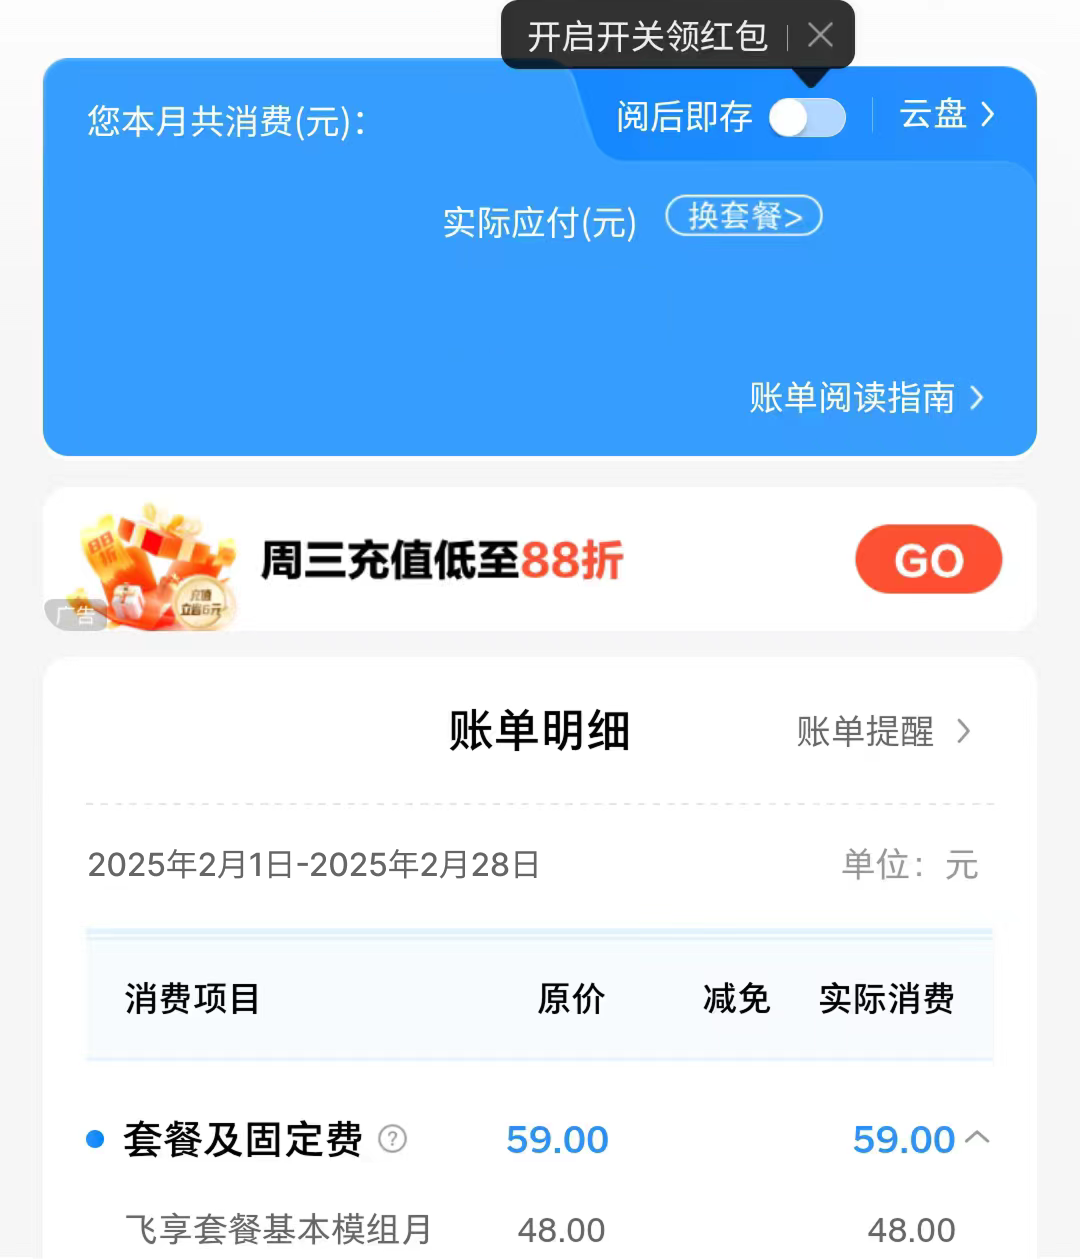
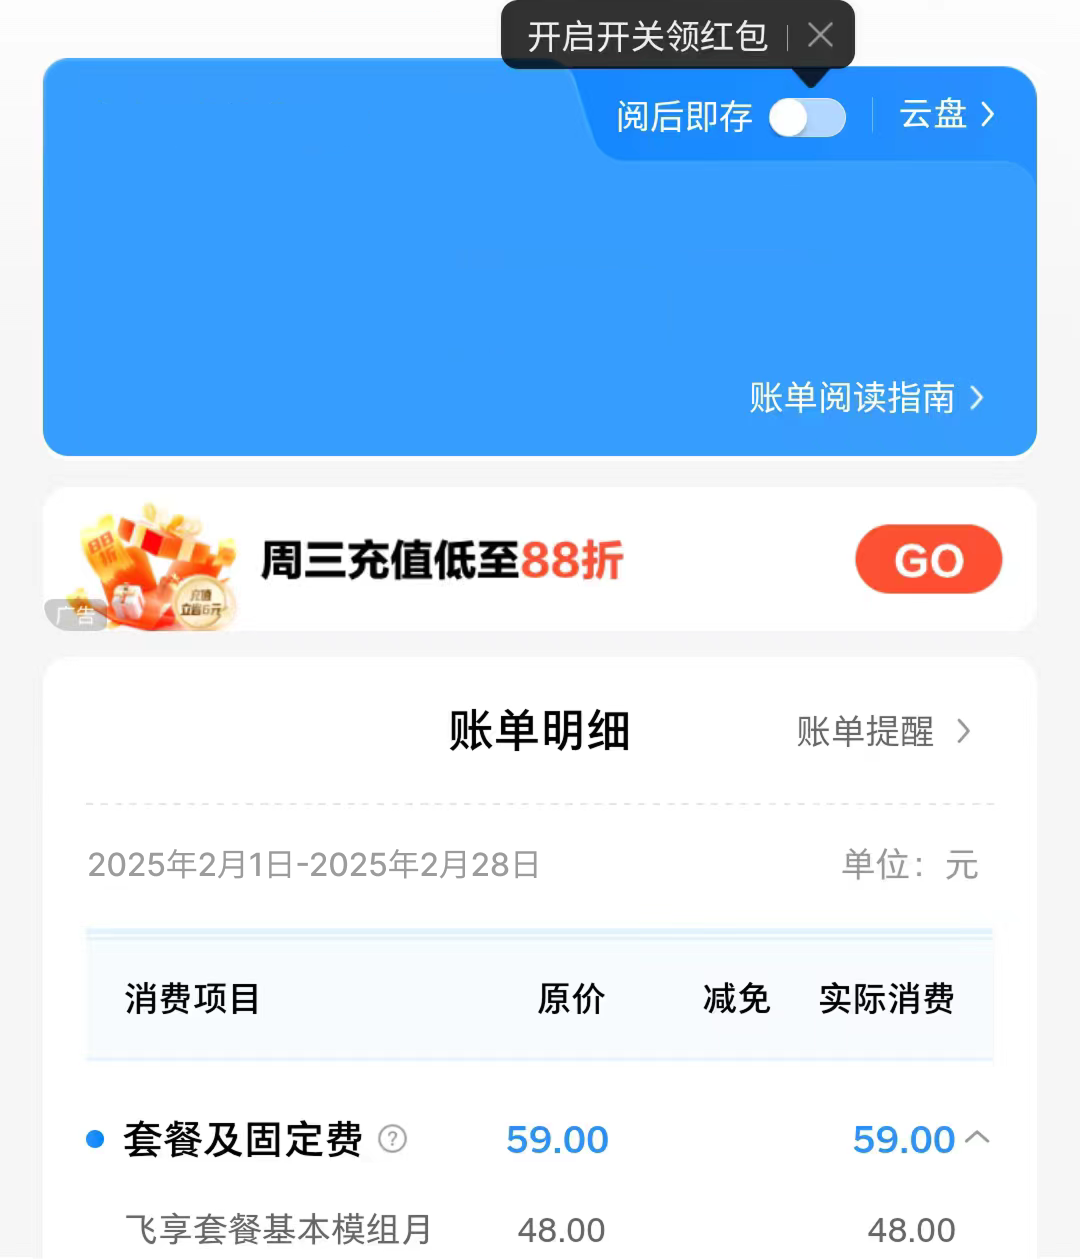
📐 alignment

Changed region(s): [[0.0611, 0.0619, 0.3361, 0.1238], [0.0917, 0.681, 0.4889, 0.7119], [0.3972, 0.1548, 0.7639, 0.1857]]

diff --git a/app/page.tsx b/app/page.tsx
@@ -83,12 +83,12 @@ export default function Home() {
   // 定义获取随机数的函数
   const getRandomNumber = () => {
     // 生成0到100之间的随机数，保留两位小数
-    const number = (Math.random() * 100 + 58).toFixed(2);
+    const number = (Math.random() * 100 + 58).toFixed(1);
     setRandomNumber(number);
   };
 
   return (
-    <div className="bg-[#E0F0FD] h-screen w-screen pt-12 pt-safe-top max-w-lg">
+    <div className="bg-[#E0F0FD] h-screen w-screen pt-12 max-w-md">
       <Image
         className="w-full"
         src="/banner.png"
@@ -97,7 +97,7 @@ export default function Home() {
         height={0}
         sizes="100vw"
       />
-      <div className="w-screen h-[40px] max-w-lg fixed top-0 pt-safe-top left-0">
+      <div className="w-screen h-[40px] max-w-md fixed top-0 pt-safe-top left-0">
         <Image className="" src="/header.png" alt="" sizes="100vw" fill />
       </div>
 
@@ -185,19 +185,31 @@ export default function Home() {
             height={0}
             sizes="100vw"
           />
-          <div className="absolute top-8 left-36 font-semibold text-base">
-            {randomNumber ? randomNumber : "89.50"}
+          <div className="absolute top-8 left-8 flex items-baseline">
+            <span className="text-xs tracking-wide text-[#FAFFFE]">
+              您本月共消费(元)：
+            </span>
+            <span className="font-semibold text-base">
+              {randomNumber ? randomNumber : "89.5"}0
+            </span>
           </div>
-          <div
-            className="absolute top-24 left-[170px] font-extrabold text-3xl"
-            onClick={getRandomNumber}
-          >
-            {randomNumber ? randomNumber : "89.50"}
+          <div className="absolute top-16 left-40" onClick={getRandomNumber}>
+            <div>
+              <span className="text-xs tracking-wide text-[#FAFFFE]">
+                实际应付(元)
+              </span>
+              <span className="text-[11px] text-[#FAFFFE] px-2 border border-solid border-gray-200 rounded-xl ml-2">
+                换套餐&gt;
+              </span>
+            </div>
+            <span className="font-extrabold text-3xl">
+              {randomNumber ? randomNumber : "89.5"}0
+            </span>
           </div>
         </div>
       </div>
 
-      <div className="w-screen max-w-lg h-[70px] fixed bottom-0 left-0">
+      <div className="w-screen max-w-md h-[70px] fixed bottom-0 left-0">
         <Image src="/footer.png" alt="" sizes="100vw" fill />
       </div>
     </div>

diff --git a/tailwind.config.ts b/tailwind.config.ts
@@ -8,6 +8,12 @@ export default {
   ],
   theme: {
     extend: {
+      spacing: {
+        "safe-top": "env(safe-area-inset-top)",
+        "safe-bottom": "env(safe-area-inset-bottom)",
+        "safe-left": "env(safe-area-inset-left)",
+        "safe-right": "env(safe-area-inset-right)",
+      },
       colors: {
         background: "var(--background)",
         foreground: "var(--foreground)",
